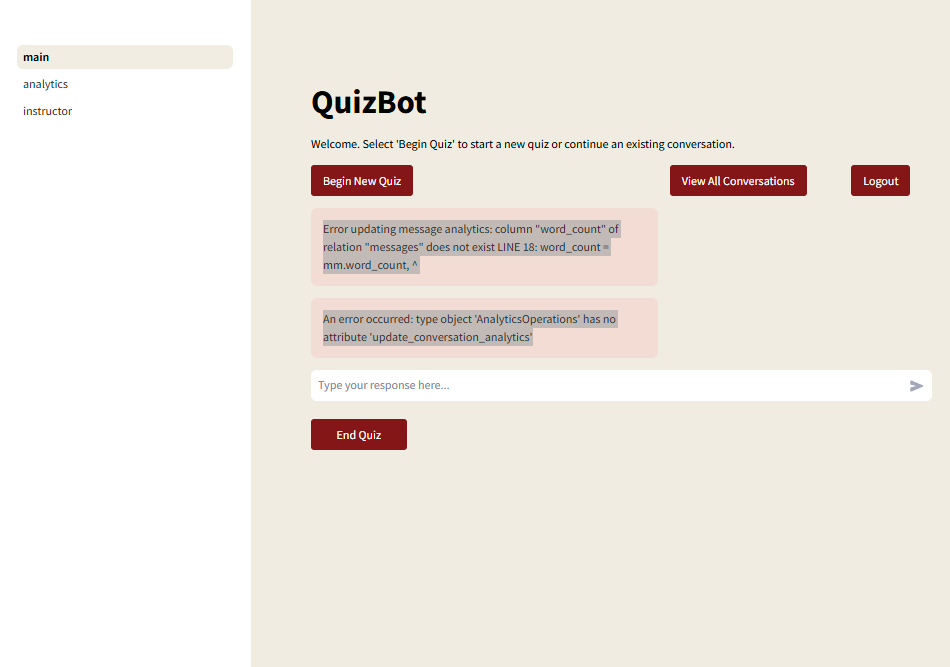
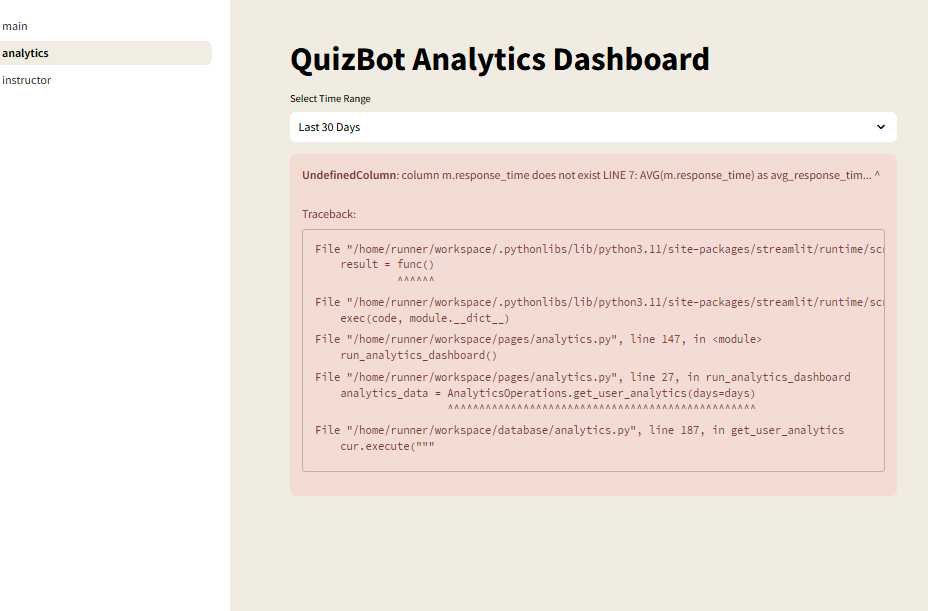
Agent query: Is the instructor interface accessible and functioning correctly now?

Changed region(s): [[0.3125, 0.0622, 1.0, 0.7463], [0.2188, 0.0, 0.2812, 1.0], [0.0, 0.0311, 0.0938, 0.1866]]

diff --git a/database/analytics.py b/database/analytics.py
@@ -11,9 +11,7 @@ class AnalyticsOperations:
         """Count the number of sentences in a text"""
         if not text:
             return 0
-        # Simple sentence counting based on period, exclamation, and question marks
         sentences = re.split(r'[.!?]+', text)
-        # Filter out empty strings
         return len([s for s in sentences if s.strip()])
 
     @staticmethod
@@ -22,9 +20,8 @@ class AnalyticsOperations:
         try:
             conn = get_db_connection()
             cur = conn.cursor()
-            message_content = None  # Initialize the variable
+            message_content = None
             
-            # Get message content and handle potential None result
             cur.execute("SELECT content FROM messages WHERE id = %s", (message_id,))
             result = cur.fetchone()
             if result:
@@ -33,11 +30,9 @@ class AnalyticsOperations:
             if not message_content:
                 return
                 
-            # Calculate message metrics
             sentence_count = AnalyticsOperations.count_sentences(message_content)
             word_count = len(message_content.split())
             
-            # Update message metrics
             cur.execute("""
                 WITH message_metrics AS (
                     SELECT 
@@ -45,10 +40,10 @@ class AnalyticsOperations:
                         m.conversation_id,
                         c.user_id,
                         %s as word_count,
-                        EXTRACT(EPOCH FROM (m.timestamp - LAG(m.timestamp) OVER (
+                        NULLIF(EXTRACT(EPOCH FROM (m.timestamp - LAG(m.timestamp) OVER (
                             PARTITION BY m.conversation_id 
                             ORDER BY m.timestamp
-                        ))) as response_time
+                        ))), 0) as response_time
                     FROM messages m
                     JOIN conversations c ON m.conversation_id = c.id
                     WHERE m.id = %s
@@ -66,12 +61,10 @@ class AnalyticsOperations:
                 RETURNING mm.conversation_id
             """, (word_count, message_id, sentence_count))
             
-            # Get the conversation_id
             result = cur.fetchone()
             if result:
                 conversation_id = result[0]
                 
-                # Update conversation sentence count
                 cur.execute("""
                     UPDATE conversations
                     SET sentence_count = (
@@ -85,7 +78,7 @@ class AnalyticsOperations:
             
             conn.commit()
         except Exception as e:
-            print(f"Error updating message analytics: {str(e)}")  # Use print instead of st.error
+            print(f"Error updating message analytics: {str(e)}")
         finally:
             if cur:
                 cur.close()
@@ -109,7 +102,7 @@ class AnalyticsOperations:
                         AND role = 'user'
                     ),
                     average_response_time = (
-                        SELECT AVG(response_time) 
+                        SELECT COALESCE(AVG(NULLIF(response_time, 0)), 0)
                         FROM messages 
                         WHERE conversation_id = c.id 
                         AND response_time IS NOT NULL
@@ -118,7 +111,7 @@ class AnalyticsOperations:
             ''', (conversation_id,))
             conn.commit()
         except Exception as e:
-            print(f"Error updating conversation analytics: {str(e)}")  # Use print instead of st.error
+            print(f"Error updating conversation analytics: {str(e)}")
         finally:
             cur.close()
             conn.close()
@@ -130,7 +123,6 @@ class AnalyticsOperations:
         cur = conn.cursor()
         
         try:
-            # Calculate user-level analytics
             cur.execute("""
                 WITH user_metrics AS (
                     SELECT 
@@ -138,7 +130,7 @@ class AnalyticsOperations:
                         COUNT(DISTINCT CASE WHEN c.completion_status = 'completed' THEN c.id END)::float / 
                             NULLIF(COUNT(DISTINCT c.id), 0) as completion_rate,
                         COUNT(m.id) as total_messages,
-                        AVG(m.response_time) as avg_response_time,
+                        COALESCE(AVG(NULLIF(m.response_time, 0)), 0) as avg_response_time,
                         AVG(EXTRACT(EPOCH FROM (c.end_time - c.start_time))/60) as avg_session_length,
                         MAX(c.start_time) as last_active,
                         AVG(m.word_count) as avg_word_count
@@ -171,7 +163,7 @@ class AnalyticsOperations:
             """, (user_id, user_id))
             conn.commit()
         except Exception as e:
-            print(f"Error updating user analytics: {str(e)}")  # Use print instead of st.error
+            print(f"Error updating user analytics: {str(e)}")
         finally:
             cur.close()
             conn.close()
@@ -184,13 +176,13 @@ class AnalyticsOperations:
         
         start_date = datetime.now() - timedelta(days=days)
         
-        cur.execute("""
+        cur.execute('''
             WITH daily_stats AS (
                 SELECT 
                     DATE(c.start_time) as date,
                     COUNT(DISTINCT c.id) as conversations,
                     COUNT(DISTINCT c.user_id) as active_users,
-                    AVG(m.response_time) as avg_response_time,
+                    COALESCE(AVG(NULLIF(m.response_time, 0)), 0) as avg_response_time,
                     AVG(EXTRACT(EPOCH FROM (c.end_time - c.start_time))/60) as avg_session_length,
                     AVG(m.word_count) as avg_word_count,
                     MODE() WITHIN GROUP (ORDER BY a.interaction_grade) as most_common_grade
@@ -202,7 +194,7 @@ class AnalyticsOperations:
             )
             SELECT * FROM daily_stats
             ORDER BY date DESC
-        """, (start_date,))
+        ''', (start_date,))
         
         results = cur.fetchall()
         cur.close()

diff --git a/database/models.py b/database/models.py
@@ -1,4 +1,3 @@
-from datetime import datetime
 import psycopg2
 import os
 
@@ -52,21 +51,11 @@ def init_db():
             role VARCHAR(20) NOT NULL,
             content TEXT NOT NULL,
             timestamp TIMESTAMP DEFAULT CURRENT_TIMESTAMP,
-            response_time INTEGER,
-            sentence_count INTEGER
+            sentence_count INTEGER,
+            response_time FLOAT DEFAULT NULL,
+            word_count INTEGER DEFAULT 0
         )
     """)
-    
-    # Check if word_count column exists before adding it
-    cur.execute('''
-        DO $$ 
-        BEGIN 
-            IF NOT EXISTS (SELECT 1 FROM information_schema.columns 
-                          WHERE table_name='messages' AND column_name='word_count') THEN
-                ALTER TABLE messages ADD COLUMN word_count INTEGER DEFAULT 0;
-            END IF;
-        END $$;
-    ''')
     
     # Create analytics_summary table with interaction grade
     cur.execute("""
